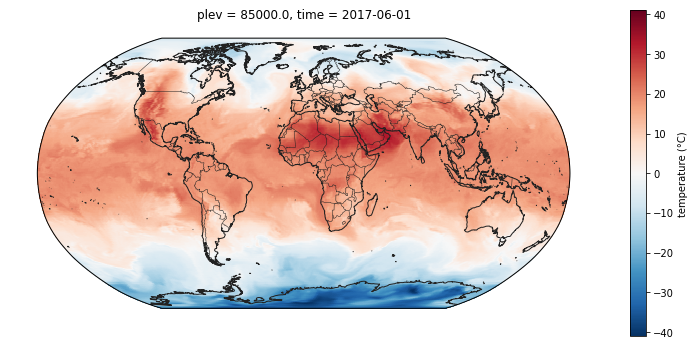
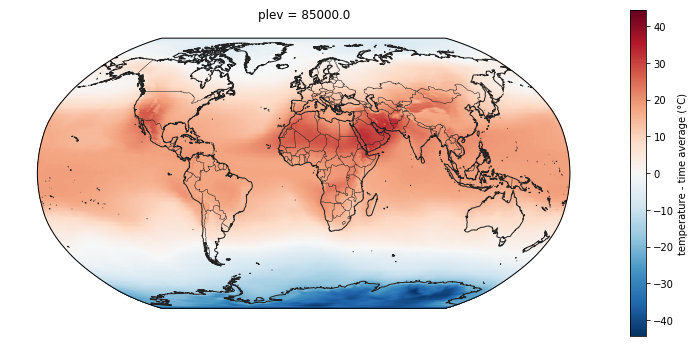
cdstools.

diff --git a/Py4ESS/PITCHME.md b/Py4ESS/PITCHME.md
@@ -248,7 +248,8 @@ DataArray()
 
 ```python
 >>> from cftools import util
->>> ta_era5_map = util.select(ta_era5_cdm, time='2017-06-01T00:00:00', plev=85000)
+>>> ta_era5_low = util.select(ta_era5_cdm, plev=85000)
+>>> ta_era5_map = util.average(ta_era5_low, dim='time')
 >>> ta_era5_map
 <xarray.DataArray 'ta' (lat: 241, lon: 480)>
 array([[ 238.349686,  238.349686,  238.349686, ...]], dtype=float32)
@@ -258,7 +259,7 @@ Coordinates:
     time     datetime64[ns] 2017-06-01
   * lon      (lon) float64 -180.0 -179.2 -178.5 -177.8 -177.0 -176.2 -175.5 ...
 Attributes:
-    long_name:      temperature
+    long_name:      temperature - time average
     standard_name:  air_temperature
     units:          K
 ```
